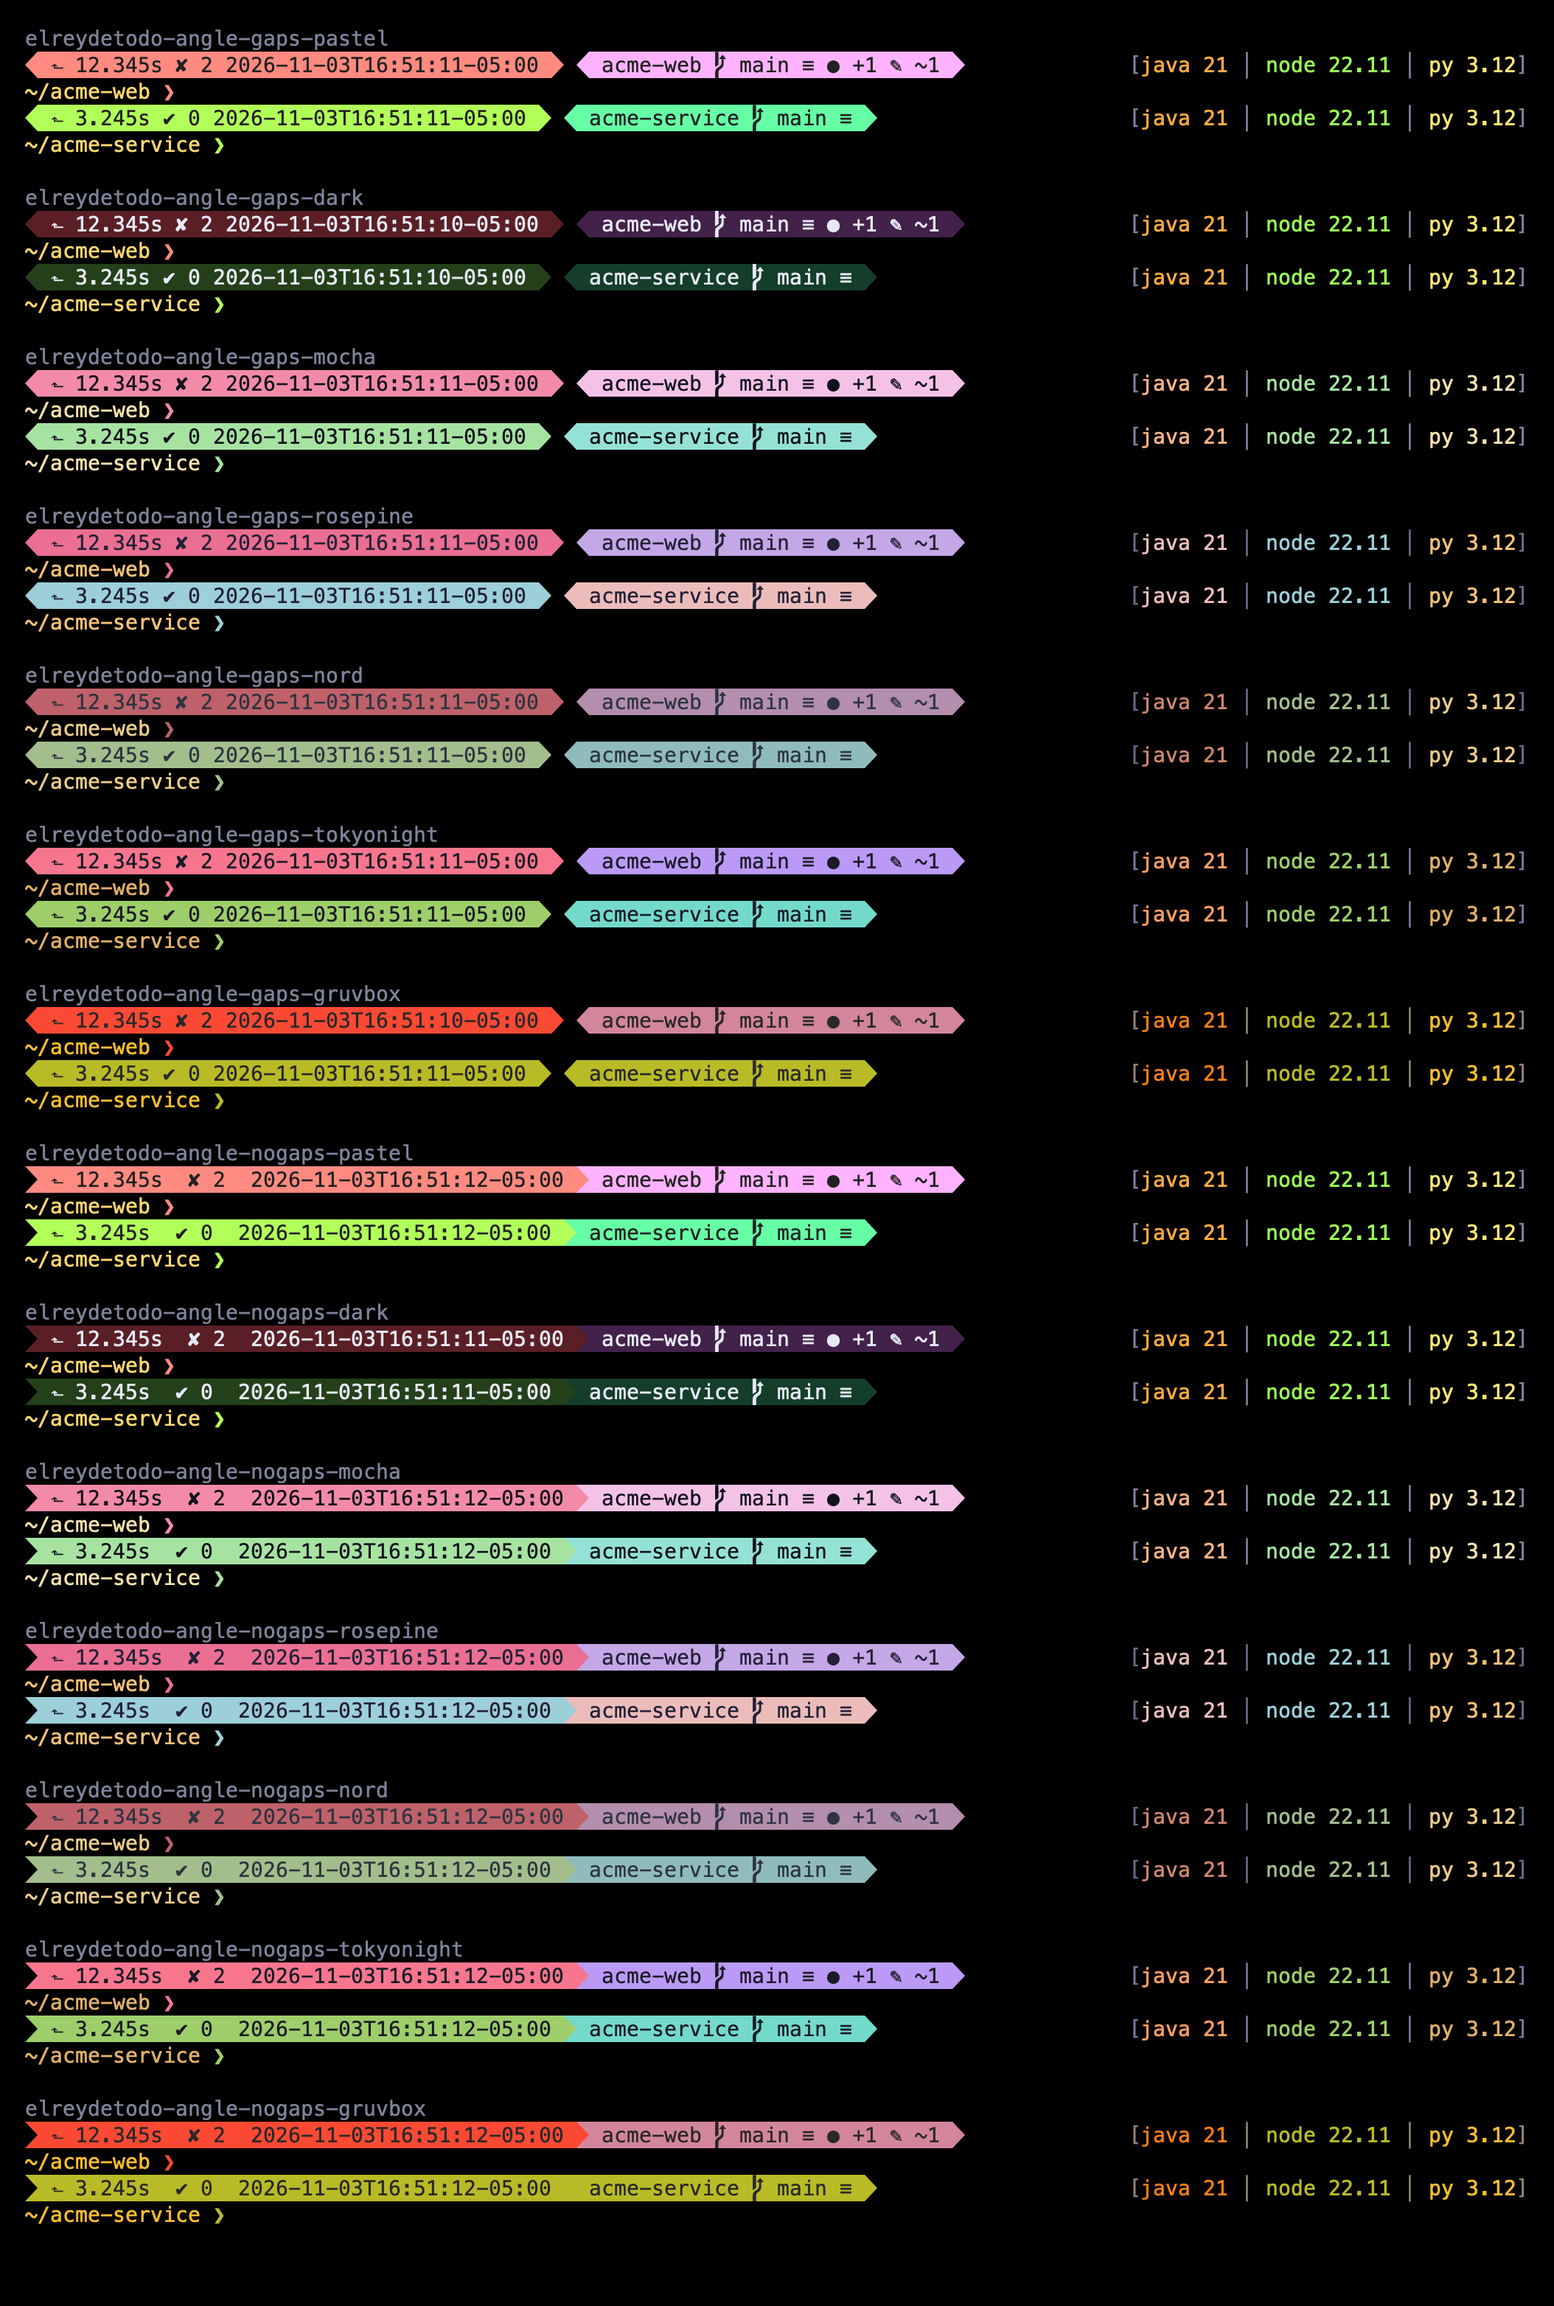
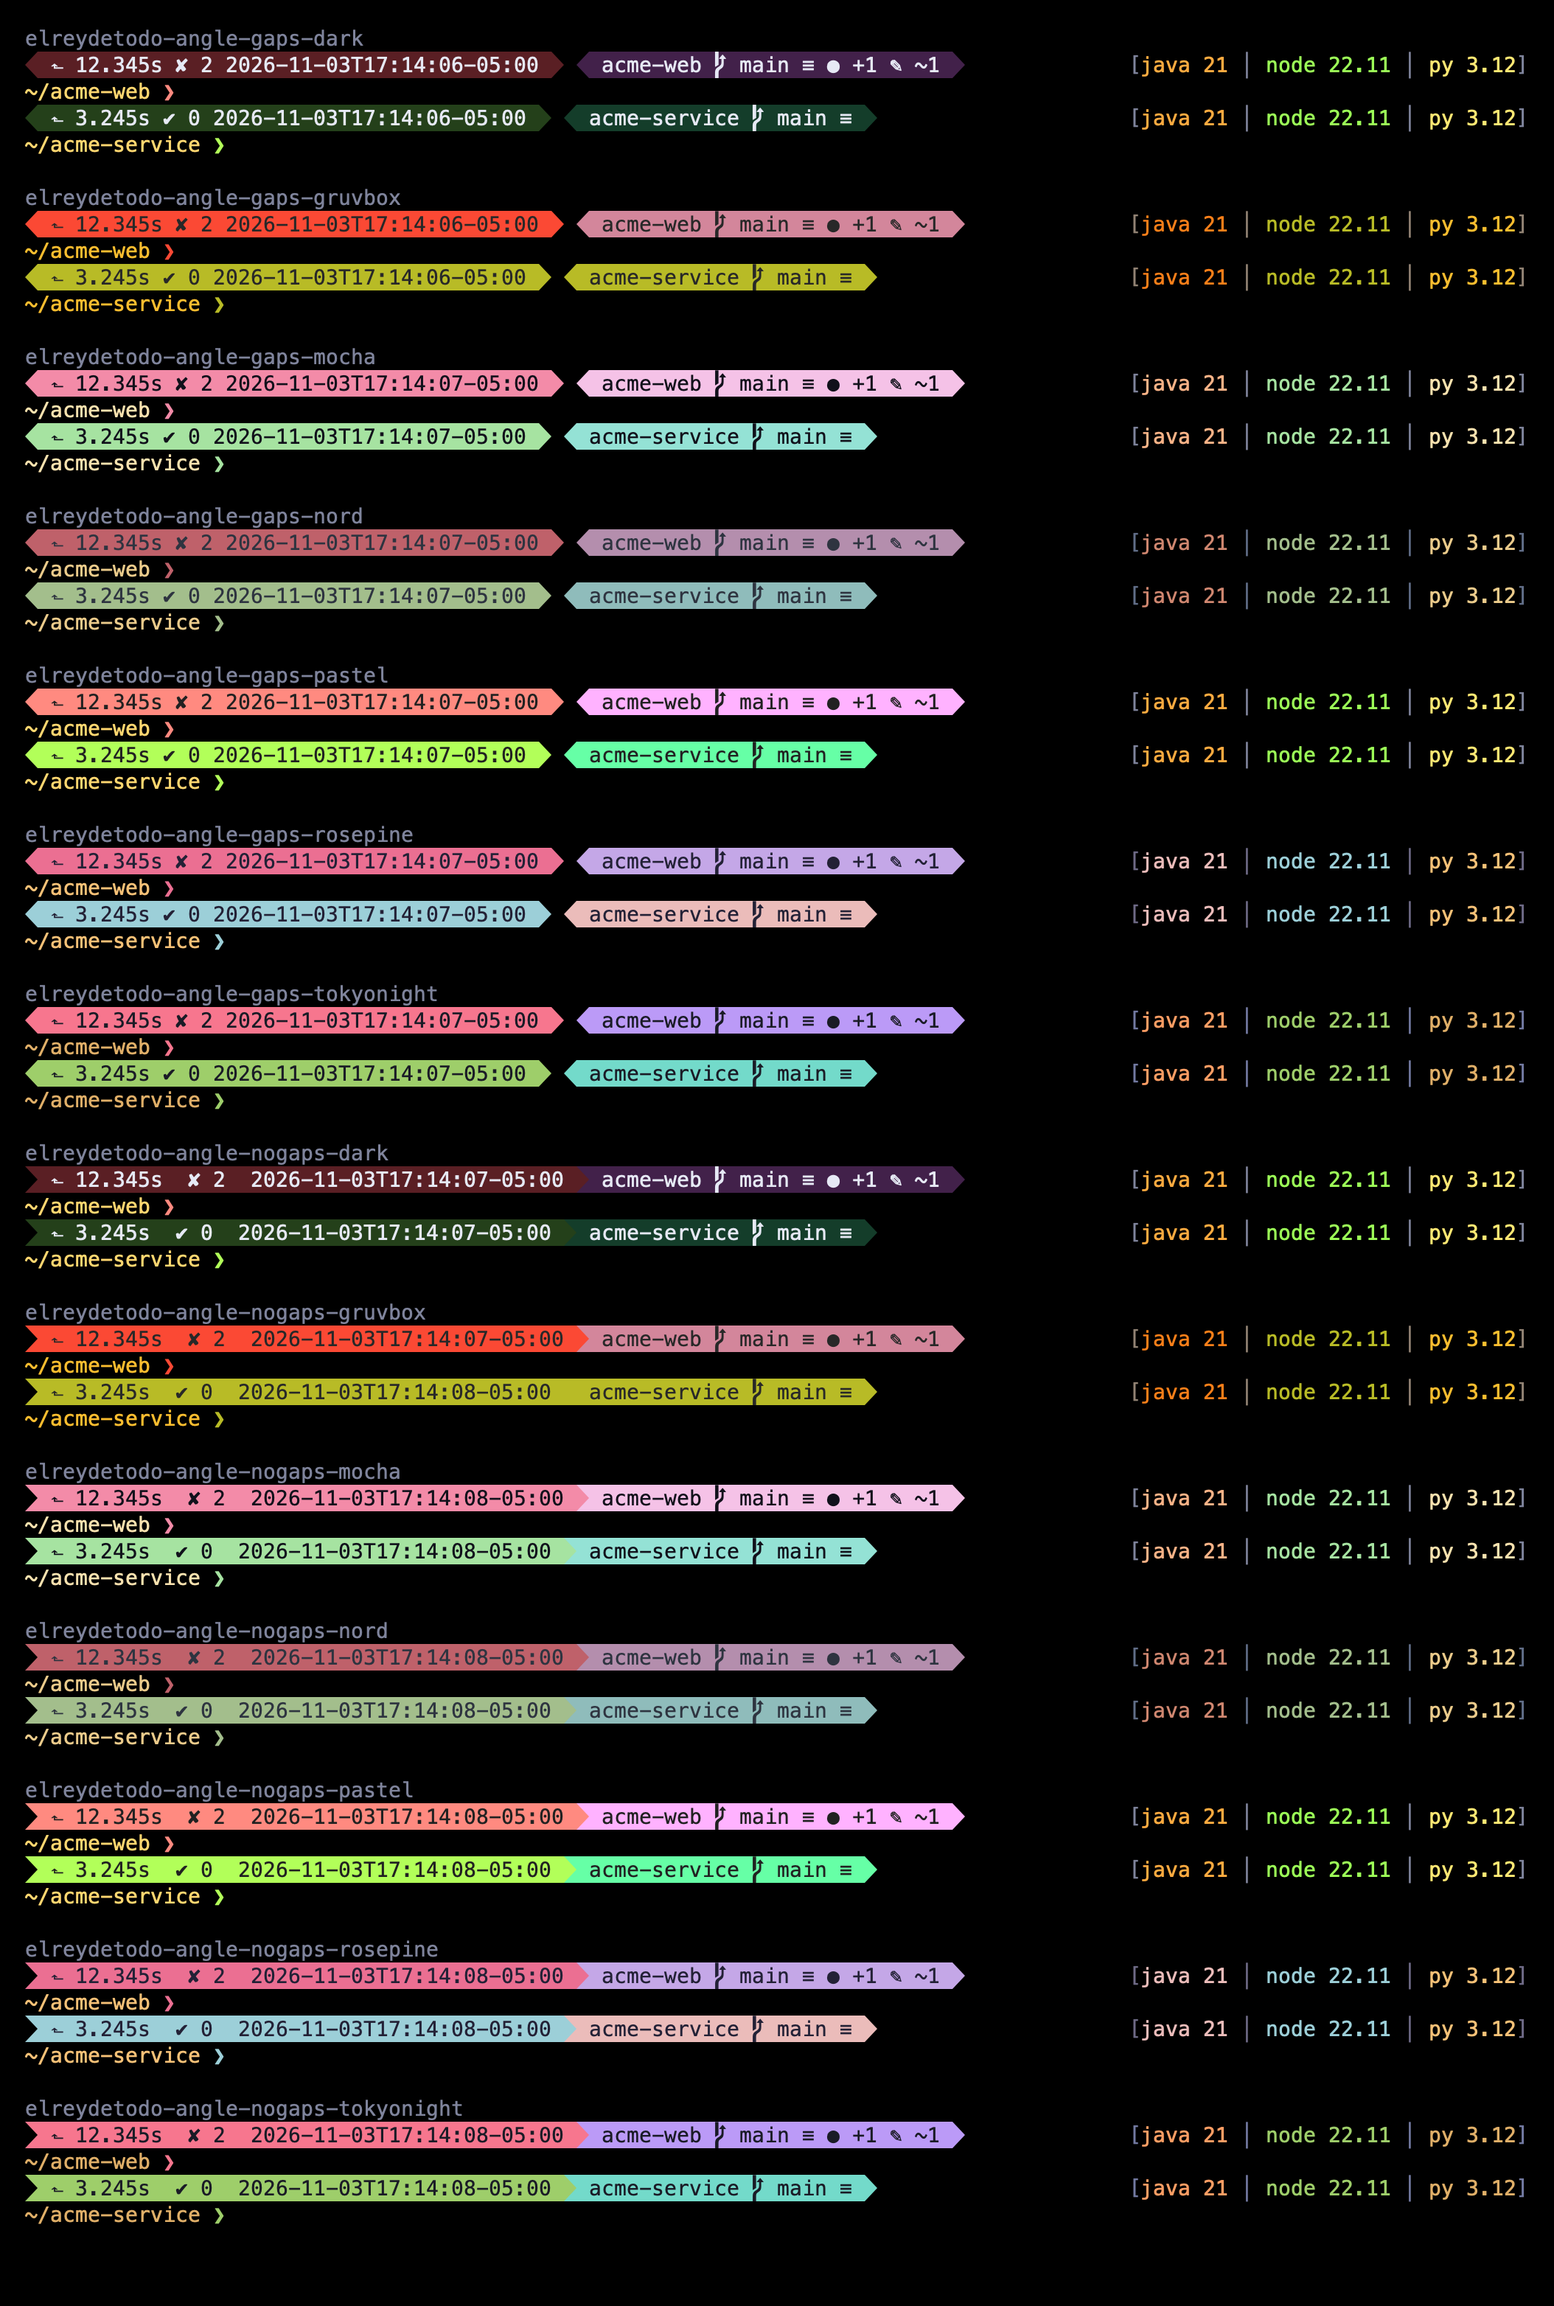
Sort the screenshots by variant name and label every one
The screenshots grouped the variants by shape and then listed the colors
from the closest to pastel to the furthest. That order made a variant
hard to find. Every image now lists its variants sorted by name. The
script finds them by globbing the variant files, so a new shape or color
appears without editing the script.

Every label is now the full variant name. The committed prompts were
labeled only with the color. They now name the round-gaps variant each
one was rendered from. The overview's labels name its variant as well.

diff --git a/oh-my-posh/SCREENSHOTS.md b/oh-my-posh/SCREENSHOTS.md
@@ -2,8 +2,8 @@
 
 The screenshots below show each variant twice. The first two lines are the live prompt after a
 command failed, in a repository with staged and unstaged changes. The next two are the live prompt
-after a command succeeded, in a clean repository. [README.md](README.md) explains the variant
-names.
+after a command succeeded, in a clean repository. The variants are sorted by name, and each one is
+labeled with its full name. [README.md](README.md) explains the names.
 
 ## Rounded edges
 
@@ -19,8 +19,9 @@ names.
 
 ## Committed prompts
 
-The committed prompt is the same for every shape of one color. Each color is shown after the
-failure and the success, with `git status` typed as the next command.
+The committed prompt is the same for every shape of one color, so each color is shown once, from
+its `round-gaps` variant. Each one appears after the failure and the success, with `git status`
+typed as the next command.
 
 ![The committed prompt in every color](screenshots/committed.png)
 

diff --git a/oh-my-posh/AGENTS.md b/oh-my-posh/AGENTS.md
@@ -24,8 +24,8 @@ designing it, so that none of it has to be rediscovered.
 
 - A new shape is a file in `parts` that extends `base.yml`, plus one variant file per color.
 - A new color set is an entry of `palettes.list` in `parts/base.yml`, plus one variant file per
-  shape. It also goes into `colors` in `screenshots/render-screenshots.zsh` and into the color
-  table of `README.md`.
+  shape. It also goes into the color table of `README.md`. The screenshot script finds variant
+  files by name, so it needs no change.
 - A color set whose pills are too dark to read as text MUST also override the `ink-*` keys, or the
   `none-gaps` variant is unreadable.
 - Every variant file has the same form: a header comment naming it and describing it, `extends`,
